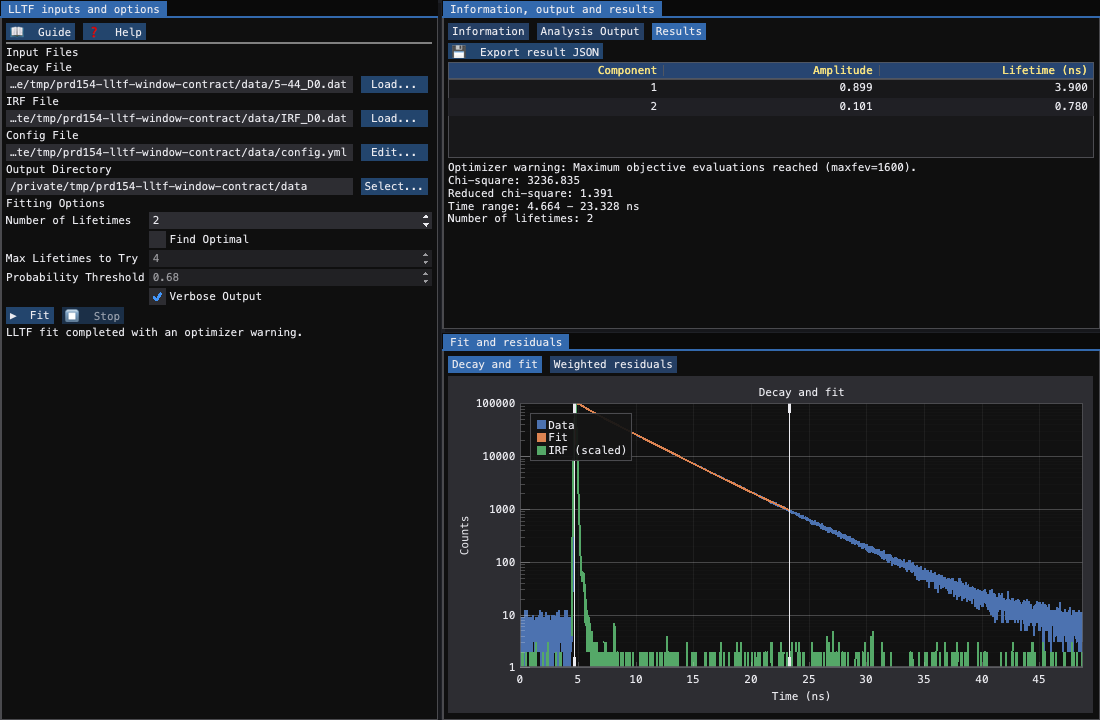
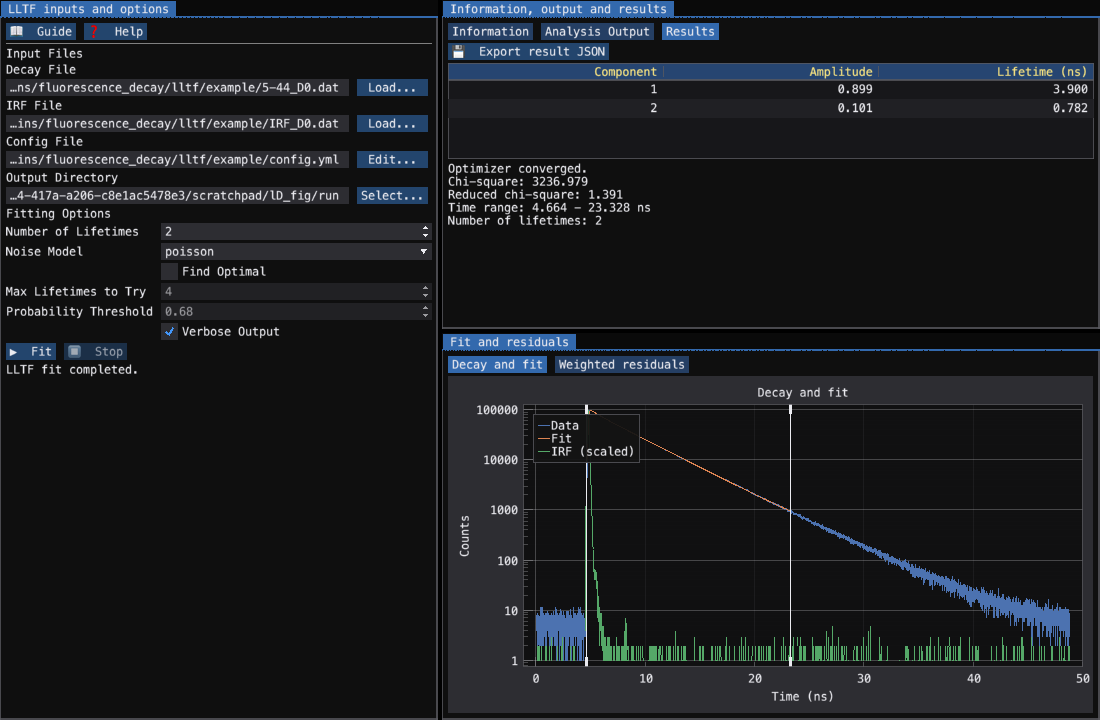
LLTF: poisson is the default noise model; neyman stays selectable
lifetime_settings.yml, Decay.noise_model and the panel now default to the Poisson
deviance; fit_lifetime reads the merged configuration's noise_model directly.

The packaged example decay peaks at exactly 100 000 counts, which guide 76 read
as 'scaled, not raw counts'. Its noise says otherwise: var(diff)/(2 mean) is
0.84-1.20 from the peak down to the 15-count tail, so the deviance applies.
On it poisson gives 1.27 / 4.00 ns (chi2r 1.49) over the default range where
neyman gave 1.35 / 4.00 ns (1.56), and the same 3.900 / 0.782 ns (1.39) over
the example config's range.

No test expectation moved: every LLTF test file passes unchanged (the parity
tolerances already held for both models). Guide 76 numbers that reflected the
neyman default were re-measured: the fit-range example (1.35 -> 1.27 ns), the
CLI and Python examples on bi.dat (3.936/0.949, chi2r 1.10, scores
10.482/1.101/1.102 -> 3.990/0.981, 1.02, 10.645/1.024/1.024). The scan table
names its model per row and did not change.

Also: -n 2 on the example now converges under either model, so the panel
figure and its Analysis Output figure, captioned with a maxfev warning, were
re-rendered headlessly (inspected) and recaptioned; the status-5 claim is gone.
Guide 76 re-signed; figure and table registers regenerated.

diff --git a/chisurf/plugins/fluorescence_decay/lltf/core/fitter.py b/chisurf/plugins/fluorescence_decay/lltf/core/fitter.py
@@ -185,10 +185,10 @@ class Decay:
         self.irf_background = 0.0
         self.decay_background = 0.0
         self.apply_irf_shift = True  # Whether to apply IRF shift
-        # Objective: "neyman" weights each channel by its own counts (works on
-        # curves that are not raw counts, biased at low counts); "poisson" is
-        # the deviance 2I* (unbiased, needs raw photon counts).
-        self.noise_model = "neyman"
+        # Objective: "poisson" is the deviance 2I* (unbiased, needs raw photon
+        # counts); "neyman" weights each channel by its own counts (works on
+        # curves that are not raw counts, biased at low counts).
+        self.noise_model = "poisson"
 
         # Analysis range
         self.start = 0
@@ -1590,7 +1590,7 @@ def fit_lifetime(
 
         # Create decay object
         decay_obj = Decay(decay=decay, irf=irf, time_axis=time_axis)
-        noise_model = str(config.get("lifetime_fit_parameter", {}).get("noise_model", "neyman"))
+        noise_model = str(config["lifetime_fit_parameter"]["noise_model"])
         if noise_model not in ("neyman", "poisson"):
             raise ValueError(f"noise_model must be 'neyman' or 'poisson', not {noise_model!r}")
         decay_obj.noise_model = noise_model

diff --git a/chisurf/plugins/fluorescence_decay/lltf/core/cli.py b/chisurf/plugins/fluorescence_decay/lltf/core/cli.py
@@ -73,8 +73,8 @@ def cli():
     "-nm",
     type=click.Choice(["neyman", "poisson"]),
     default=None,
-    help="Objective: neyman (data-weighted chi-square, the default; any curve) or poisson "
-    "(deviance 2I*, unbiased; the decay must be raw photon counts). Overrides the configuration.",
+    help="Objective: poisson (deviance 2I*, unbiased, the default; the decay must be raw photon "
+    "counts) or neyman (data-weighted chi-square; any curve). Overrides the configuration.",
 )
 @click.option("--skiprows", "-s", type=int, default=0, help="Number of rows to skip in data files")
 @click.option("--delimiter", "-d", type=str, default=None, help="Delimiter used in data files")

diff --git a/docs/guides/76_decay_analysis_tools.md b/docs/guides/76_decay_analysis_tools.md
@@ -19,9 +19,10 @@ you choose, the only data on which LLTF's choices can be checked.
 Reconvolution, the nuisance terms and the two average lifetimes are in
 {ref}`concept-tcspc-lifetime`. How to decide the number of components is
 {ref}`concept-tcspc-model-selection`; how synthetic decays are sampled and what a
-photon budget allows is {ref}`concept-tcspc-synthetic-decays`. LLTF weights by
-the data (Neyman $\chi^2$) unless `noise_model: poisson` selects the deviance
-$2I^*$; both are discussed in {ref}`concept-fitting-objectives`.
+photon budget allows is {ref}`concept-tcspc-synthetic-decays`. LLTF minimises
+the Poisson deviance $2I^*$ unless `noise_model: neyman` selects weighting by
+the data (Neyman $\chi^2$); both are discussed in
+{ref}`concept-fitting-objectives`.
 :::
 
 ## Open the tools
@@ -98,10 +99,9 @@ hand, in this order:
 
 Lazy Lifetime Analysis after **Fit** on the plugin's example donor decay
 (`example/5-44_D0.dat` with `IRF_D0.dat` and the example `config.yml`), two
-lifetimes: 3.900 ns (0.899) and 0.780 ns (0.101), $\chi^2_r = 1.39$ over
-4.66–23.3 ns. The white lines are the automatic fit range. The status and the
-*Results* summary carry an optimizer warning: the fit stopped on its evaluation
-budget.
+lifetimes: 3.900 ns (0.899) and 0.782 ns (0.101), $\chi^2_r = 1.39$ over
+4.66–23.3 ns, Noise Model `poisson`. The white lines are the automatic fit
+range. The *Results* summary reports that the optimizer converged.
 ```
 
 The window has three docks: the inputs and options on the left, *Information*,
@@ -110,9 +110,9 @@ weighted residuals below.
 
 A fit that ends without converging still writes its numbers. The JSON records
 `optimizer_status`, `converged`, `optimizer_message` and `optimizer_source`, and
-the panel shows a warning when `converged` is false; the example above reaches
-its evaluation limit (status 5, `maxfev` 1600). A written file is not a
-convergence claim.
+the panel and its status line show a warning when `converged` is false (for
+example `maxfev` reached, status 5). A written file is not a convergence
+claim.
 
 Starting values come from a local random generator, seed 0 by default
 (`randomize_initial_values.seed`, forwarded to every fit of a scan; `None` draws
@@ -155,7 +155,7 @@ scan).
 
 | Key | Default | Meaning |
 |---|---|---|
-| `lifetime_fit_parameter.noise_model` | `neyman` | the objective: `neyman` weights each channel by its own counts (any curve; biased at low counts), `poisson` minimises the deviance $2I^*$ (unbiased; the decay must be raw photon counts). CLI `--noise-model` |
+| `lifetime_fit_parameter.noise_model` | `poisson` | the objective: `poisson` minimises the deviance $2I^*$ (unbiased; the decay must be raw photon counts), `neyman` weights each channel by its own counts (any curve; biased at low counts). Panel **Noise Model**, CLI `--noise-model` |
 | `analysis_range_parameter.start_fraction` | 0.005 | start where the rise crosses this fraction of the peak |
 | `…start_at_peak` | false | start at the peak instead |
 | `…area` | 0.9999 | stop at this fraction of the cumulative counts |
@@ -199,8 +199,9 @@ range, IRF scaled to the decay maximum) and the weighted residuals.
 :name: fig-lltf-output
 :width: 100%
 
-*Analysis Output* of the same fit. The `maxfev` warning means the optimizer
-stopped on its evaluation budget rather than on convergence.
+*Analysis Output* of the same fit: the range, background and starting values
+the fitter chose, then the fitted lifetimes, nuisance terms and $\chi^2$. A
+fit that stops on its evaluation budget prints a `maxfev` warning here.
 ```
 
 Two files are written to the output directory:
@@ -217,13 +218,17 @@ Two files are written to the output directory:
 of the scan.
 
 **The fit range decides the answer.** The same example decay fitted with two
-lifetimes gives 1.35 ns / 4.00 ns over the default range (4.57–44.1 ns,
+lifetimes gives 1.27 ns / 4.00 ns over the default range (4.57–44.1 ns,
 `area` 0.9999, `start_fraction` 0.005) and 0.78 ns / 3.90 ns over the example
 config's range (4.66–23.3 ns, `area` 0.99, `start_fraction` 0.1). Both
 residual traces look acceptable at a glance. When a short component moves by a
-factor of two with the fit window, the decay does not determine it. The example
-decay is also scaled to a peak of exactly 100 000, so it is not raw counts and
-its $\chi^2_r$ does not measure fit quality.
+factor of 1.6 with the fit window, the decay does not determine it. The example
+decay peaks at exactly 100 000 counts (an acquisition stopped at a peak limit),
+but its noise is Poisson on the stored values: the variance of channel-to-channel
+differences over twice the mean is 0.84–1.20 from the peak down to the
+15-count tail. It is raw counts as far as the deviance is concerned; with
+`neyman` the same two fits give 1.35 / 4.00 ns ($\chi^2_r$ 1.56 against 1.49)
+and 0.78 / 3.90 ns (1.39 for both).
 
 ### The component-count scan
 
@@ -264,9 +269,9 @@ lifetimes this bias moves the fit along the near-flat direction of the
 pair. On seed 1 of 3.0 + 4.5 ns (amplitudes and nuisances refitted at fixed
 lifetimes) the data-weighted $\chi^2$ scores the wrong pair 2.36 / 4.13 ns 138
 lower than the true pair; the deviance scores the true pair 12 lower than the
-wrong one. `neyman` stays the default because
-it also fits curves that are not counts (the packaged example is scaled to a
-peak of 100 000).
+wrong one. `poisson` is therefore the default; choose `neyman` only for a
+curve that is not counts (normalised, background-subtracted or averaged), where
+the deviance has no meaning.
 
 **What remains is resolution.** With the deviance, the profile over $\tau_1$
 for seed 1 (everything else refitted) rises by 5.1 at 2.5 ns, 2.5 at the true
@@ -371,15 +376,15 @@ csc synth-decay generate --lifetimes 1.0,4.0 --amplitudes 0.5,0.5 \
     --photons 2e6 --seed 2 --no-normalize -o bi.dat
 csc lltf fit bi.dat chisurf/plugins/fluorescence_decay/lltf/example/IRF_D0.dat \
     -f -m 3 -sp out_bi
-# Lifetime 1: 3.936 ns, Amplitude: 0.511
-# Lifetime 2: 0.949 ns, Amplitude: 0.489
-# Reduced chi-square: 1.10
+# Lifetime 1: 3.990 ns, Amplitude: 0.501
+# Lifetime 2: 0.981 ns, Amplitude: 0.499
+# Reduced chi-square: 1.02
 ```
 
 `bi.dat` holds 2 000 360 photons. `csc lltf fit` takes `-c` for a YAML
 configuration, `-n` for a fixed component count, `-pt`/`-sm` for the scan's
-threshold and mode, `--noise-model poisson` for the deviance on raw counts
-(`bi.dat` is raw counts: it returns 3.99 ns and 0.98 ns), `--skiprows`, `--delimiter`, `--time-column` and
+threshold and mode, `--noise-model neyman` for a curve that is not counts
+(on `bi.dat` it returns 3.94 ns and 0.95 ns), `--skiprows`, `--delimiter`, `--time-column` and
 `--counts-column` for the file layout, and `-si` to keep each scanned model.
 `csc synth-decay aniso` generates a VV/VH pair (`--rotation b,ρ,…`,
 `--g-factor`, `--l1`, `--l2`, `--vvvh-file`), and `csc synth-decay component`
@@ -408,8 +413,8 @@ res = fit_lifetime(
                                        "plot_weighted_residuals": False},
             "plot_resulting_fit": False},
     save_intermediate_results=False)
-print(res["n_lifetimes"], res["lifetime_spectrum"])   # 2 [0.511 3.936 0.489 0.949]
-print(res["optimal_fitting"]["scores"])               # [10.482 1.101 1.102]
+print(res["n_lifetimes"], res["lifetime_spectrum"])   # 2 [0.501 3.99  0.499 0.981]
+print(res["optimal_fitting"]["scores"])               # [10.645 1.024 1.024]
 ```
 
 The generator underneath is

diff --git a/docs/reference/figures.md b/docs/reference/figures.md
@@ -259,7 +259,7 @@ entry there is marked **unrecorded** below, and that is the worklist.
 | 236 | `guides/figures/fcs_toolbox_channels.png` | Channel definitions for a two-detector setup: the two autocorrelations and the green × red cross-correlation, each with its own multi-tau settings; the selected… | docs/guides/screenshots/fcs_toolbox_channels.py::main | [docs/guides/75_fcs_toolbox.md](/guides/75_fcs_toolbox.md) |
 | 237 | `guides/figures/fcs_toolbox_files.png` | One photon stream loaded (the BH SPC-132 test file); the photon filter is off and the FCS merger on, the defaults for a solution measurement. | docs/guides/make_screenshots.py::go | [docs/guides/75_fcs_toolbox.md](/guides/75_fcs_toolbox.md) |
 | 238 | `guides/figures/lltf_native_optimizer_warning.png` | Lazy Lifetime Analysis after **Fit** on the plugin's example donor decay (`example/5-44_D0.dat` with `IRF_D0.dat` and the example `config.yml`), two lifetimes:… | hand-driven headless capture of the tool the guide describes (no generating script) | [docs/guides/76_decay_analysis_tools.md](/guides/76_decay_analysis_tools.md) |
-| 239 | `guides/figures/lltf_output.png` | *Analysis Output* of the same fit. The `maxfev` warning means the optimizer stopped on its evaluation budget rather than on convergence. | hand-driven headless capture of the tool the guide describes (no generating script) | [docs/guides/76_decay_analysis_tools.md](/guides/76_decay_analysis_tools.md) |
+| 239 | `guides/figures/lltf_output.png` | *Analysis Output* of the same fit: the range, background and starting values the fitter chose, then the fitted lifetimes, nuisance terms and $\chi^2$. A fit tha… | hand-driven headless capture of the tool the guide describes (no generating script) | [docs/guides/76_decay_analysis_tools.md](/guides/76_decay_analysis_tools.md) |
 | 240 | `guides/figures/lltf_settings.png` | **Edit…** — the **LLTF configuration** editor, here holding the example `config.yml` (narrower range: `area` 0.99, `start_fraction` 0.1; no IRF-shift scan). | docs/guides/make_screenshots.py::draw | [docs/guides/76_decay_analysis_tools.md](/guides/76_decay_analysis_tools.md) |
 | 241 | `guides/figures/synthetic_decay_native_window.png` | The generator in VV/VH mode: two lifetimes, two rotations, $g = 1.3$ and $l_1, l_2$ set, drawn with a measured IRF; the decays on the right, $r(t)$ of the rotat… | hand-driven headless capture of the tool the guide describes (no generating script) | [docs/guides/76_decay_analysis_tools.md](/guides/76_decay_analysis_tools.md) |
 | 242 | `guides/figures/synthetic_decay_vm.png` | Two equal-amplitude lifetimes (1.2 and 4.0 ns) on 1024 channels of 32 ps, convolved with the LLTF example IRF (binned to 32 ps) and drawn as $10^6$ photons with… | docs/guides/make_screenshots.py::_grab_synthetic_decay | [docs/guides/76_decay_analysis_tools.md](/guides/76_decay_analysis_tools.md) |

diff --git a/chisurf/plugins/fluorescence_decay/lltf/help.md b/chisurf/plugins/fluorescence_decay/lltf/help.md
@@ -28,14 +28,15 @@ IRF shift, two backgrounds and χ². No uncertainties. The results are written a
 ## Before you believe it
 
 - **Change the fit range** (`start_fraction`, `area`). On the example decay a
-  short component moves from 0.78 to 1.35 ns between two reasonable ranges.
+  short component moves from 0.78 to 1.27 ns between two reasonable ranges.
 - **Do not take the automatic component count as a verdict.** Its F test is an
   approximation (an added component sits on a parameter boundary). Read the χ²ᵣ of
   every model in the JSON (`optimal_fitting`) and decide yourself.
-- **On raw photon counts, set `noise_model: poisson`** in the Config File.
-  The default weights each channel by its own counts, which biases the fit:
-  3.0 + 4.5 ns comes back as about 2.4 + 4.1 ns, the deviance gives 2.8–3.0 +
-  4.4–4.5 ns at 2×10⁶ photons. Keep the default for curves that are not counts.
+- **The fit assumes raw photon counts** (Noise Model `poisson`, the Poisson
+  deviance). For a curve that is not counts (normalised, background-subtracted,
+  averaged) choose `neyman`, which weights each channel by its own value and is
+  biased at low counts: 3.0 + 4.5 ns comes back as about 2.4 + 4.1 ns, where the
+  deviance gives 2.8–3.0 + 4.4–4.5 ns at 2×10⁶ photons.
 - **Test it on a synthetic decay** made with your IRF, window and photon count
   (Synthetic Decay Generator, `csc synth-decay`).
 

diff --git a/docs/reference/tables.md b/docs/reference/tables.md
@@ -231,7 +231,7 @@ they sit on is reviewed.
 | 209 | Converting correlation files | Readers (`-it`), Writers (`-ot`) | [docs/guides/75_fcs_toolbox.md](/guides/75_fcs_toolbox.md) |
 | 210 | Open the tools | Tool, Opens from, What it does, Guide | [docs/guides/76_decay_analysis_tools.md](/guides/76_decay_analysis_tools.md) |
 | 211 | Settings | Key, Default, Meaning | [docs/guides/76_decay_analysis_tools.md](/guides/76_decay_analysis_tools.md) |
-| 212 | The component-count scan | True decay, Chosen $n$ (seeds 1, 2, 3), Recovered | [docs/guides/76_decay_analysis_tools.md](/guides/76_decay_analysis_tools.md) |
+| 212 | The component-count scan | True decay, `noise_model`, Chosen $n$ (seeds 1, 2, 3), Recovered | [docs/guides/76_decay_analysis_tools.md](/guides/76_decay_analysis_tools.md) |
 | 213 | Reading it: the case where the tests disagree | comparison, $\chi^2_r$, tool confidence, $\chi^2_{r,2}$ needed at 95 %, extra-SS $F$ ($p$), $\Delta$AIC | [docs/guides/78_model_comparison_and_batch.md](/guides/78_model_comparison_and_batch.md) |
 | 214 | Where results go | item, $\tau_1$ (ns), $\tau_2$ (ns), $\langle\tau\rangle_x$ (ns), $\langle\tau\rangle_F$ (ns), $\chi^2_r$ | [docs/guides/78_model_comparison_and_batch.md](/guides/78_model_comparison_and_batch.md) |
 | 215 | The standard lines | Line, Components, Vary, Range | [docs/guides/82_fret_lines.md](/guides/82_fret_lines.md) |
